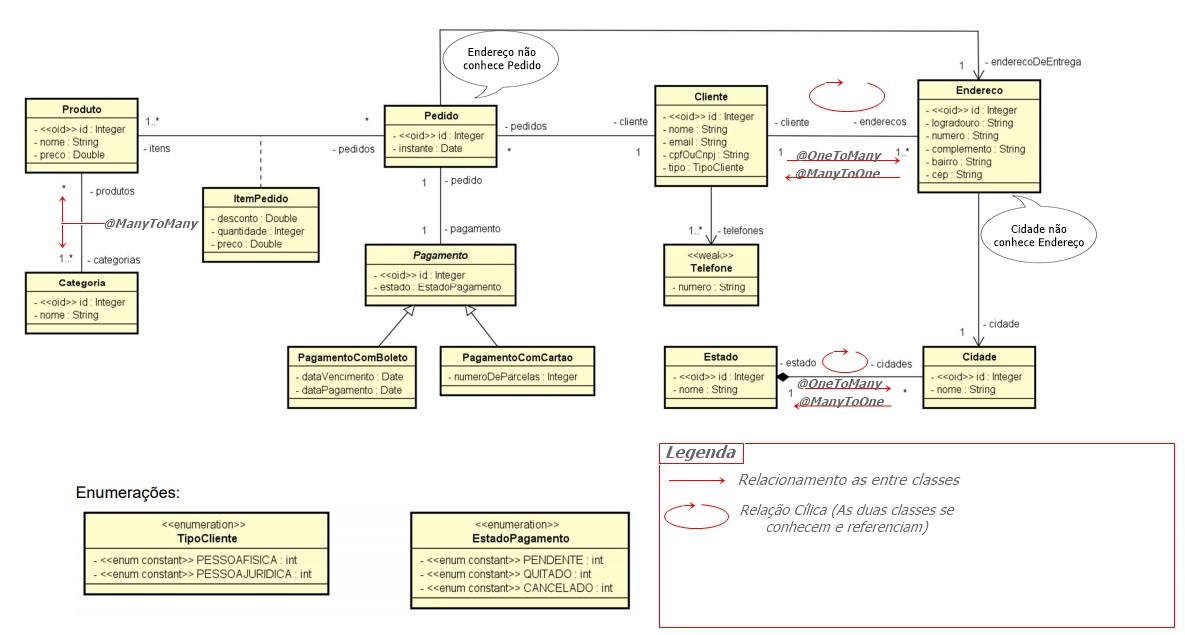
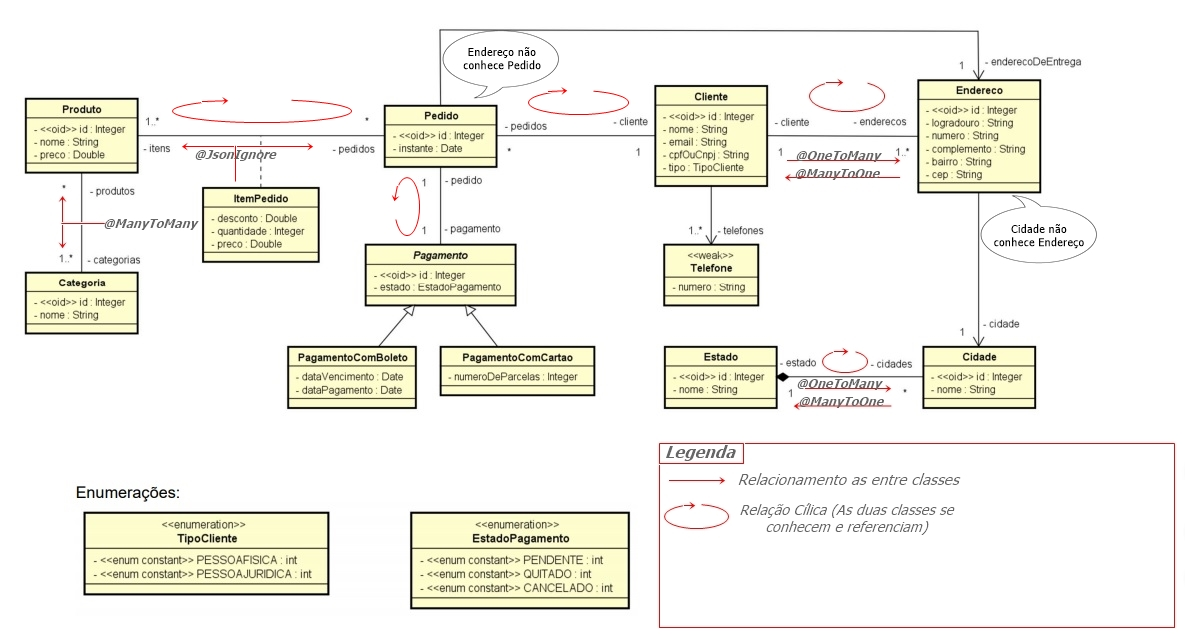
Endpoint/pedidos/{id} - on

diff --git a/src/main/java/com/vinicius/mc/resources/PedidoResource.java b/src/main/java/com/vinicius/mc/resources/PedidoResource.java
@@ -1,0 +1,46 @@
+package com.vinicius.mc.resources;
+
+import java.util.ArrayList;
+import java.util.List;
+
+import org.springframework.beans.factory.annotation.Autowired;
+import org.springframework.http.ResponseEntity;
+import org.springframework.web.bind.annotation.PathVariable;
+import org.springframework.web.bind.annotation.RequestMapping;
+import org.springframework.web.bind.annotation.RequestMethod;
+import org.springframework.web.bind.annotation.RestController;
+
+import com.vinicius.mc.domain.Pedido;
+import com.vinicius.mc.services.PedidoService;
+
+@RestController
+@RequestMapping(value="/pedidos")//EndPoint
+public class PedidoResource {
+
+	@Autowired
+	private PedidoService service;
+	
+	
+	
+	//@PAthVariable -> mostra onde o /{id} deve ser colocado
+	//ResponseEntity -> encapsula/armazena informações de 
+	//uma resposta http para um serviço REST 
+	@RequestMapping(value = "/{id}", method=RequestMethod.GET)
+	public ResponseEntity<?> find(@PathVariable Integer id ) {
+		Pedido obj = service.find(id);
+		return ResponseEntity.ok().body(obj);
+		
+		
+		
+	}
+	
+	
+	
+	
+	
+	
+	
+	
+	
+	
+}

diff --git a/src/main/java/com/vinicius/mc/domain/Pedido.java b/src/main/java/com/vinicius/mc/domain/Pedido.java
@@ -15,6 +15,9 @@ import javax.persistence.ManyToOne;
 import javax.persistence.OneToMany;
 import javax.persistence.OneToOne;
 
+import com.fasterxml.jackson.annotation.JsonFormat;
+import com.fasterxml.jackson.annotation.JsonManagedReference;
+
 @Entity
 public class Pedido implements Serializable{
 	
@@ -23,8 +26,11 @@ public class Pedido implements Serializable{
 	@Id
 	@GeneratedValue(strategy = GenerationType.IDENTITY)
 	private Integer id;
+	
+	@JsonFormat(pattern="dd/MM/yyyy HH:mm")
 	private Date instante;
 	
+	@JsonManagedReference
 	@OneToOne(cascade = CascadeType.ALL, mappedBy="pedido")
 	//cascade => Evita erro de entidade transiente
 	private Pagamento pagamento;
@@ -32,6 +38,7 @@ public class Pedido implements Serializable{
 	@OneToMany(mappedBy="id.pedido")
 	private Set<ItemPedido> itens = new HashSet<>();
 	
+	@JsonManagedReference
 	@ManyToOne	
 	@JoinColumn(name="cliente_id")
 	private Cliente cliente;

diff --git a/src/main/java/com/vinicius/mc/services/PedidoService.java b/src/main/java/com/vinicius/mc/services/PedidoService.java
@@ -1,0 +1,31 @@
+package com.vinicius.mc.services;
+
+import java.util.Optional;
+
+import org.springframework.beans.factory.annotation.Autowired;
+import org.springframework.stereotype.Service;
+
+import com.vinicius.mc.domain.Pedido;
+import com.vinicius.mc.repositories.PedidoRepository;
+import com.vinicius.mc.services.exception.ObjectNotFoundException;
+
+@Service
+public class PedidoService {
+
+	@Autowired
+	//Essa anotação faz com que a dependência seja
+	//automaticamente instanciada pelo spring
+	private PedidoRepository repo ;
+	
+	public Pedido find(Integer id) {
+		Optional<Pedido> obj = repo.findById(id);
+		//Método .findById() herdado da classe JpaRepository
+		//Substitui o antigo método .findOne()
+		return obj.orElseThrow(()-> new ObjectNotFoundException(
+				"Objeto não encontrado! id: "+id+", Tipo: "
+				+Pedido.class.getName()));
+			}
+	
+	
+	
+}

diff --git a/src/main/java/com/vinicius/mc/domain/ItemPedido.java b/src/main/java/com/vinicius/mc/domain/ItemPedido.java
@@ -5,6 +5,8 @@ import java.io.Serializable;
 import javax.persistence.EmbeddedId;
 import javax.persistence.Entity;
 
+import com.fasterxml.jackson.annotation.JsonIgnore;
+
 
 @Entity
 public class ItemPedido implements Serializable{
@@ -12,6 +14,7 @@ public class ItemPedido implements Serializable{
 	
 	private static final long serialVersionUID = 1L;
 
+	@JsonIgnore
 	@EmbeddedId
 	//A chave primária é composta por outra classe
 	private ItemPedidoPK id = new ItemPedidoPK();
@@ -37,9 +40,11 @@ public class ItemPedido implements Serializable{
 
 	//Getters e Setters
 	
+	@JsonIgnore
 	public Pedido getPedido() {
 		return id.getPedido();
 	}
+	
 	
 	public Produto getProduto() {
 		return id.getProduto();

diff --git a/src/main/java/com/vinicius/mc/domain/Cliente.java b/src/main/java/com/vinicius/mc/domain/Cliente.java
@@ -14,6 +14,7 @@ import javax.persistence.GenerationType;
 import javax.persistence.Id;
 import javax.persistence.OneToMany;
 
+import com.fasterxml.jackson.annotation.JsonBackReference;
 import com.fasterxml.jackson.annotation.JsonManagedReference;
 import com.vinicius.mc.domain.enums.TipoCliente;
 
@@ -43,7 +44,7 @@ public class Cliente implements Serializable {
 	//Conjuntos 'Set<>' - Não aceitam repetição
 	private Set<String> telefones = new HashSet<>();
 	
-	@JsonManagedReference
+	@JsonBackReference
 	@OneToMany(mappedBy="cliente")
 	private List<Pedido> pedidos = new ArrayList<>();
 	

diff --git a/src/main/java/com/vinicius/mc/domain/Produto.java b/src/main/java/com/vinicius/mc/domain/Produto.java
@@ -16,6 +16,7 @@ import javax.persistence.ManyToMany;
 import javax.persistence.OneToMany;
 
 import com.fasterxml.jackson.annotation.JsonBackReference;
+import com.fasterxml.jackson.annotation.JsonIgnore;
 
 
 
@@ -43,9 +44,12 @@ public class Produto implements Serializable{
 	)
 	private List<Categoria> categorias = new ArrayList<>();
 	
+	@JsonIgnore
 	@OneToMany(mappedBy="id.produto")
 	private Set<ItemPedido> itens = new HashSet<>();
 	
+	
+	@JsonIgnore
 	public List<Pedido>  getPedidos(){
 		List<Pedido>lista = new ArrayList<>();
 		for(ItemPedido x: itens) {

diff --git a/src/main/java/com/vinicius/mc/domain/Pagamento.java b/src/main/java/com/vinicius/mc/domain/Pagamento.java
@@ -10,6 +10,7 @@ import javax.persistence.JoinColumn;
 import javax.persistence.MapsId;
 import javax.persistence.OneToOne;
 
+import com.fasterxml.jackson.annotation.JsonBackReference;
 import com.vinicius.mc.domain.enums.EstadoPagamento;
 
 @Entity
@@ -22,6 +23,8 @@ public abstract class Pagamento implements Serializable{
 	private Integer id;
 	private Integer estado;
 	
+	
+	@JsonBackReference
 	@OneToOne
 	@JoinColumn(name="pedido_id")
 	@MapsId //O id do pedido será o mesmo do pagamento

diff --git a/src/main/java/com/vinicius/mc/CursomcApplication.java b/src/main/java/com/vinicius/mc/CursomcApplication.java
@@ -114,7 +114,7 @@ public class CursomcApplication implements CommandLineRunner {
 		clienteRepository.saveAll(Arrays.asList(cli1));
 		enderecoRepository.saveAll(Arrays.asList(e1,e2));
 		
-		SimpleDateFormat sdf = new SimpleDateFormat("dd/mm/yyyy HH:mm");
+		SimpleDateFormat sdf = new SimpleDateFormat("dd/MM/yyyy HH:mm");
 		Pedido ped1 = new Pedido(null, sdf.parse("30/09/2017 10:32"),cli1, e1);
 		Pedido ped2 = new Pedido(null, sdf.parse("10/10/2017 19:35"), cli1, e2);
 		

diff --git a/src/main/java/com/vinicius/mc/domain/PagamentoComBoleto.java b/src/main/java/com/vinicius/mc/domain/PagamentoComBoleto.java
@@ -4,6 +4,7 @@ import java.util.Date;
 
 import javax.persistence.Entity;
 
+import com.fasterxml.jackson.annotation.JsonFormat;
 import com.vinicius.mc.domain.enums.EstadoPagamento;
 
 @Entity
@@ -11,7 +12,10 @@ public class PagamentoComBoleto extends Pagamento{
 
 	private static final long serialVersionUID = 1L;
 	
+	@JsonFormat(pattern="dd/MM/yyyy")
 	private Date dataVencimento;
+	
+	@JsonFormat(pattern="dd/MM/yyyy")
 	private Date dataPagamento;
 	
 	//Construtores
